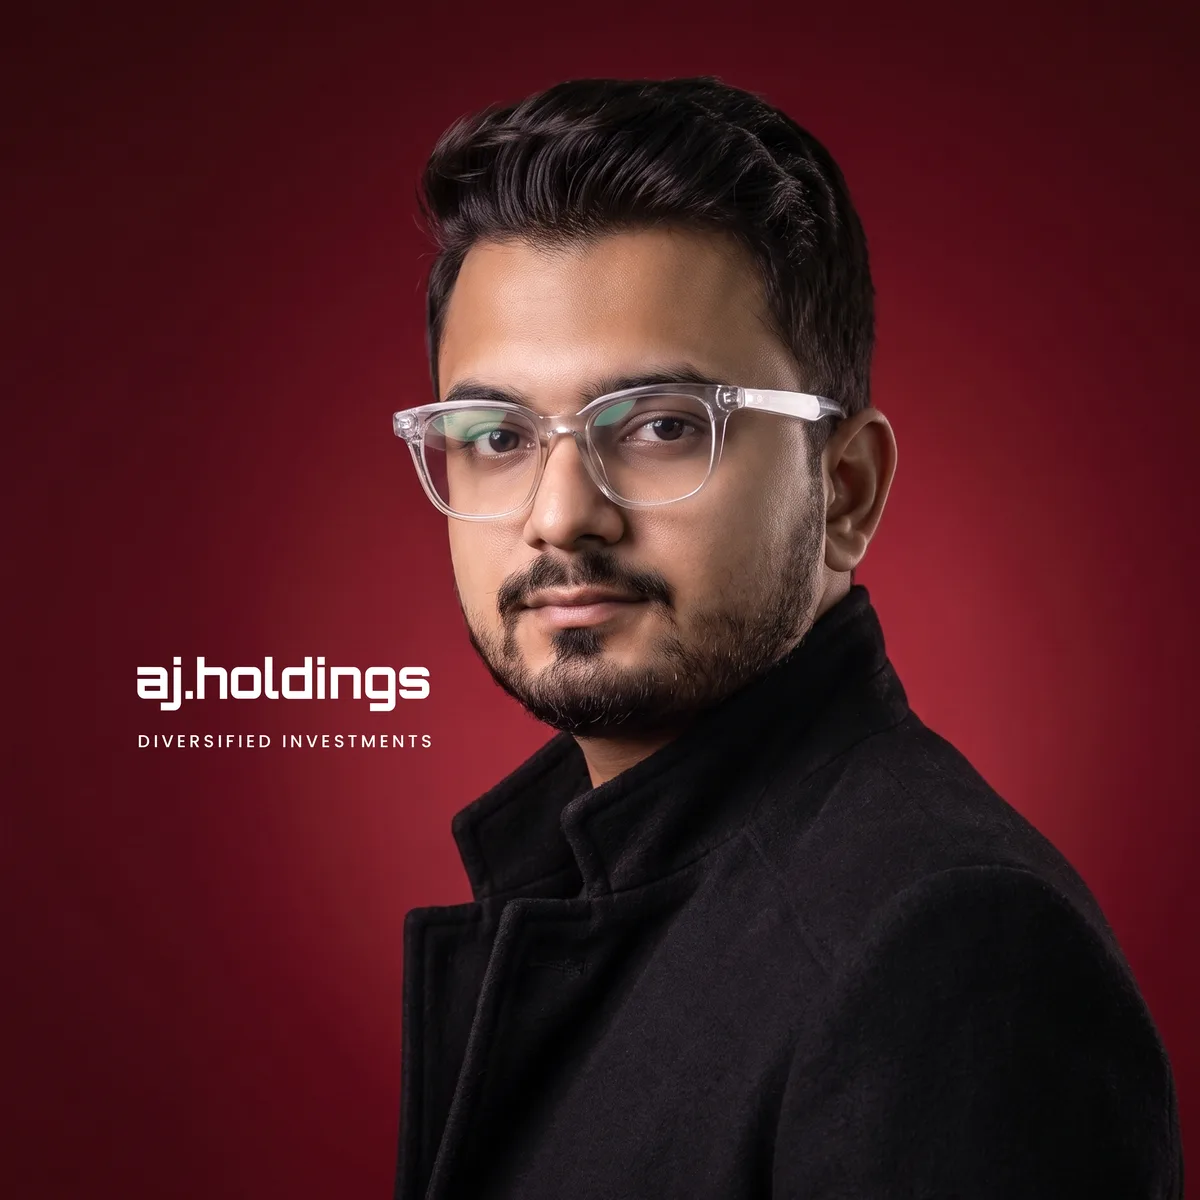
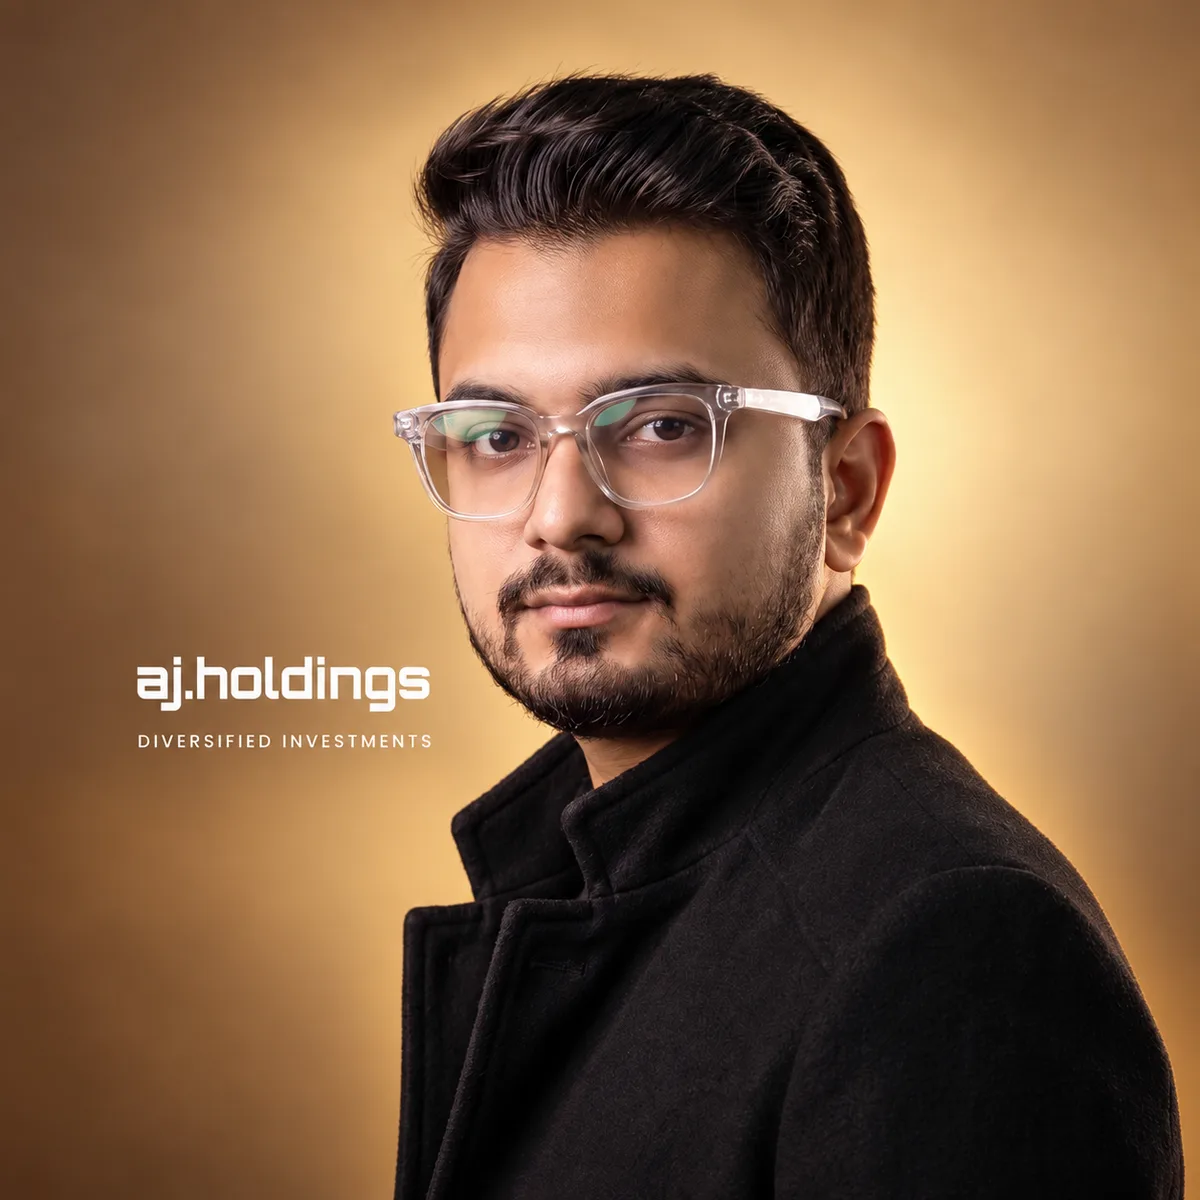
Gold Chairman portrait, digital-assets tile, and "Our holdings" heading
Publishes redesign 5271716 to the live site and the /preview/ mirror.

diff --git a/index.html b/index.html
@@ -118,16 +118,19 @@
                   <img src="portfolio/web/pace-digitek.png" alt="Pace Digitek" width="90" height="32" loading="lazy" />
                 </div>
                 <div class="hero-ticker-item">
-                  <img src="portfolio/web/GH2Solar.png" alt="GH2 Solar" width="90" height="32" loading="lazy" />
-                </div>
-                <div class="hero-ticker-item">
                   <img src="portfolio/web/88eightyeight.png" alt="88 Eighty Eight Pictures" width="90" height="32" loading="lazy" />
                 </div>
                 <div class="hero-ticker-item">
                   <img src="portfolio/web/skyy-development.png" alt="Skyy Development" width="90" height="32" loading="lazy" />
                 </div>
-                <div class="hero-ticker-item">
-                  <img src="portfolio/web/solana.svg" alt="Solana" width="90" height="32" loading="lazy" />
+                <div class="hero-ticker-item hero-ticker-coin">
+                  <img src="portfolio/web/bitcoin.svg" alt="Bitcoin" width="32" height="32" loading="lazy" />
+                </div>
+                <div class="hero-ticker-item hero-ticker-coin">
+                  <img src="portfolio/web/ethereum.svg" alt="Ethereum" width="20" height="32" loading="lazy" />
+                </div>
+                <div class="hero-ticker-item hero-ticker-coin">
+                  <img src="portfolio/web/solana.svg" alt="Solana" width="40" height="32" loading="lazy" />
                 </div>
                 <div class="hero-ticker-item">
                   <img src="portfolio/web/grew-solar.svg" alt="Grew Solar" width="90" height="32" loading="lazy" />
@@ -148,16 +151,19 @@
                   <img src="portfolio/web/pace-digitek.png" alt="" width="90" height="32" loading="lazy" />
                 </div>
                 <div class="hero-ticker-item" aria-hidden="true">
-                  <img src="portfolio/web/GH2Solar.png" alt="" width="90" height="32" loading="lazy" />
-                </div>
-                <div class="hero-ticker-item" aria-hidden="true">
                   <img src="portfolio/web/88eightyeight.png" alt="" width="90" height="32" loading="lazy" />
                 </div>
                 <div class="hero-ticker-item" aria-hidden="true">
                   <img src="portfolio/web/skyy-development.png" alt="" width="90" height="32" loading="lazy" />
                 </div>
-                <div class="hero-ticker-item" aria-hidden="true">
-                  <img src="portfolio/web/solana.svg" alt="" width="90" height="32" loading="lazy" />
+                <div class="hero-ticker-item hero-ticker-coin" aria-hidden="true">
+                  <img src="portfolio/web/bitcoin.svg" alt="" width="32" height="32" loading="lazy" />
+                </div>
+                <div class="hero-ticker-item hero-ticker-coin" aria-hidden="true">
+                  <img src="portfolio/web/ethereum.svg" alt="" width="20" height="32" loading="lazy" />
+                </div>
+                <div class="hero-ticker-item hero-ticker-coin" aria-hidden="true">
+                  <img src="portfolio/web/solana.svg" alt="" width="40" height="32" loading="lazy" />
                 </div>
                 <div class="hero-ticker-item" aria-hidden="true">
                   <img src="portfolio/web/grew-solar.svg" alt="" width="90" height="32" loading="lazy" />
@@ -361,11 +367,11 @@
         <div class="section-heading reveal">
           <div>
             <p class="eyebrow">[ PORTFOLIO ]</p>
-            <h2 id="portfolio-title">Companies <em>we back.</em></h2>
+            <h2 id="portfolio-title">Our <em>holdings.</em></h2>
           </div>
           <p class="heading-copy">
             Selected investments across technology, infrastructure, energy, real
-            estate and emerging industries. Select a logo to learn more.
+            estate, media and digital assets. Select a logo to learn more.
           </p>
         </div>
         <div class="portfolio-wall reveal">
@@ -412,25 +418,6 @@
               type="button"
               class="portfolio-logo"
               aria-expanded="false"
-              aria-controls="co-gh2-solar"
-            >
-              <img
-                src="portfolio/web/GH2Solar.png"
-                alt="GH2 Solar"
-                width="125"
-                height="55"
-                loading="lazy"
-              />
-            </button>
-            <p class="portfolio-note" id="co-gh2-solar" hidden>
-              <strong>GH2 Solar</strong>Green hydrogen company turning solar power into clean fuel, from electrons to molecules.
-            </p>
-          </div>
-          <div>
-            <button
-              type="button"
-              class="portfolio-logo"
-              aria-expanded="false"
               aria-controls="co-eighty-eight"
             >
               <img
@@ -464,24 +451,38 @@
               <strong>Skyy Development</strong>Real estate developer delivering residential and commercial projects.
             </p>
           </div>
-          <div>
+          <div class="portfolio-wide">
             <button
               type="button"
               class="portfolio-logo"
               aria-expanded="false"
-              aria-controls="co-solana"
+              aria-controls="co-digital-assets"
             >
-              <img
-                src="portfolio/web/solana.svg"
-                alt="Solana" class="logo-sm"
-                width="125"
-                height="55"
-                loading="lazy"
-              />
-              <span class="portfolio-name" aria-hidden="true">Solana</span>
+              <span class="portfolio-trio">
+                <img
+                  src="portfolio/web/bitcoin.svg"
+                  alt="Bitcoin"
+                  width="48"
+                  height="48"
+                  loading="lazy"
+                /><img
+                  src="portfolio/web/ethereum.svg"
+                  alt="Ethereum"
+                  width="30"
+                  height="48"
+                  loading="lazy"
+                /><img
+                  src="portfolio/web/solana.svg"
+                  alt="Solana"
+                  width="60"
+                  height="48"
+                  loading="lazy"
+                />
+              </span>
+              <span class="portfolio-name" aria-hidden="true">Bitcoin · Ethereum · Solana</span>
             </button>
-            <p class="portfolio-note" id="co-solana" hidden>
-              <strong>Solana</strong>High-performance blockchain network for decentralised applications and digital payments.
+            <p class="portfolio-note" id="co-digital-assets" hidden>
+              <strong>Digital Assets</strong>Strategic exposure to leading digital assets: Bitcoin, Ethereum and Solana.
             </p>
           </div>
           <div>

diff --git a/preview/index.html b/preview/index.html
@@ -119,16 +119,19 @@
                   <img src="portfolio/web/pace-digitek.png" alt="Pace Digitek" width="90" height="32" loading="lazy" />
                 </div>
                 <div class="hero-ticker-item">
-                  <img src="portfolio/web/GH2Solar.png" alt="GH2 Solar" width="90" height="32" loading="lazy" />
-                </div>
-                <div class="hero-ticker-item">
                   <img src="portfolio/web/88eightyeight.png" alt="88 Eighty Eight Pictures" width="90" height="32" loading="lazy" />
                 </div>
                 <div class="hero-ticker-item">
                   <img src="portfolio/web/skyy-development.png" alt="Skyy Development" width="90" height="32" loading="lazy" />
                 </div>
-                <div class="hero-ticker-item">
-                  <img src="portfolio/web/solana.svg" alt="Solana" width="90" height="32" loading="lazy" />
+                <div class="hero-ticker-item hero-ticker-coin">
+                  <img src="portfolio/web/bitcoin.svg" alt="Bitcoin" width="32" height="32" loading="lazy" />
+                </div>
+                <div class="hero-ticker-item hero-ticker-coin">
+                  <img src="portfolio/web/ethereum.svg" alt="Ethereum" width="20" height="32" loading="lazy" />
+                </div>
+                <div class="hero-ticker-item hero-ticker-coin">
+                  <img src="portfolio/web/solana.svg" alt="Solana" width="40" height="32" loading="lazy" />
                 </div>
                 <div class="hero-ticker-item">
                   <img src="portfolio/web/grew-solar.svg" alt="Grew Solar" width="90" height="32" loading="lazy" />
@@ -149,16 +152,19 @@
                   <img src="portfolio/web/pace-digitek.png" alt="" width="90" height="32" loading="lazy" />
                 </div>
                 <div class="hero-ticker-item" aria-hidden="true">
-                  <img src="portfolio/web/GH2Solar.png" alt="" width="90" height="32" loading="lazy" />
-                </div>
-                <div class="hero-ticker-item" aria-hidden="true">
                   <img src="portfolio/web/88eightyeight.png" alt="" width="90" height="32" loading="lazy" />
                 </div>
                 <div class="hero-ticker-item" aria-hidden="true">
                   <img src="portfolio/web/skyy-development.png" alt="" width="90" height="32" loading="lazy" />
                 </div>
-                <div class="hero-ticker-item" aria-hidden="true">
-                  <img src="portfolio/web/solana.svg" alt="" width="90" height="32" loading="lazy" />
+                <div class="hero-ticker-item hero-ticker-coin" aria-hidden="true">
+                  <img src="portfolio/web/bitcoin.svg" alt="" width="32" height="32" loading="lazy" />
+                </div>
+                <div class="hero-ticker-item hero-ticker-coin" aria-hidden="true">
+                  <img src="portfolio/web/ethereum.svg" alt="" width="20" height="32" loading="lazy" />
+                </div>
+                <div class="hero-ticker-item hero-ticker-coin" aria-hidden="true">
+                  <img src="portfolio/web/solana.svg" alt="" width="40" height="32" loading="lazy" />
                 </div>
                 <div class="hero-ticker-item" aria-hidden="true">
                   <img src="portfolio/web/grew-solar.svg" alt="" width="90" height="32" loading="lazy" />
@@ -362,11 +368,11 @@
         <div class="section-heading reveal">
           <div>
             <p class="eyebrow">[ PORTFOLIO ]</p>
-            <h2 id="portfolio-title">Companies <em>we back.</em></h2>
+            <h2 id="portfolio-title">Our <em>holdings.</em></h2>
           </div>
           <p class="heading-copy">
             Selected investments across technology, infrastructure, energy, real
-            estate and emerging industries. Select a logo to learn more.
+            estate, media and digital assets. Select a logo to learn more.
           </p>
         </div>
         <div class="portfolio-wall reveal">
@@ -413,25 +419,6 @@
               type="button"
               class="portfolio-logo"
               aria-expanded="false"
-              aria-controls="co-gh2-solar"
-            >
-              <img
-                src="portfolio/web/GH2Solar.png"
-                alt="GH2 Solar"
-                width="125"
-                height="55"
-                loading="lazy"
-              />
-            </button>
-            <p class="portfolio-note" id="co-gh2-solar" hidden>
-              <strong>GH2 Solar</strong>Green hydrogen company turning solar power into clean fuel, from electrons to molecules.
-            </p>
-          </div>
-          <div>
-            <button
-              type="button"
-              class="portfolio-logo"
-              aria-expanded="false"
               aria-controls="co-eighty-eight"
             >
               <img
@@ -465,24 +452,38 @@
               <strong>Skyy Development</strong>Real estate developer delivering residential and commercial projects.
             </p>
           </div>
-          <div>
+          <div class="portfolio-wide">
             <button
               type="button"
               class="portfolio-logo"
               aria-expanded="false"
-              aria-controls="co-solana"
+              aria-controls="co-digital-assets"
             >
-              <img
-                src="portfolio/web/solana.svg"
-                alt="Solana" class="logo-sm"
-                width="125"
-                height="55"
-                loading="lazy"
-              />
-              <span class="portfolio-name" aria-hidden="true">Solana</span>
+              <span class="portfolio-trio">
+                <img
+                  src="portfolio/web/bitcoin.svg"
+                  alt="Bitcoin"
+                  width="48"
+                  height="48"
+                  loading="lazy"
+                /><img
+                  src="portfolio/web/ethereum.svg"
+                  alt="Ethereum"
+                  width="30"
+                  height="48"
+                  loading="lazy"
+                /><img
+                  src="portfolio/web/solana.svg"
+                  alt="Solana"
+                  width="60"
+                  height="48"
+                  loading="lazy"
+                />
+              </span>
+              <span class="portfolio-name" aria-hidden="true">Bitcoin · Ethereum · Solana</span>
             </button>
-            <p class="portfolio-note" id="co-solana" hidden>
-              <strong>Solana</strong>High-performance blockchain network for decentralised applications and digital payments.
+            <p class="portfolio-note" id="co-digital-assets" hidden>
+              <strong>Digital Assets</strong>Strategic exposure to leading digital assets: Bitcoin, Ethereum and Solana.
             </p>
           </div>
           <div>

diff --git a/preview/style.css b/preview/style.css
@@ -2211,3 +2211,25 @@ h2 {
     transform: none;
   }
 }
+/* Portfolio: digital assets share one double-width tile. Dense flow lets
+   the next logo fill the gap the wide tile leaves at a row end. */
+.portfolio-wall {
+  grid-auto-flow: dense;
+}
+.portfolio-wall > .portfolio-wide {
+  grid-column: span 2;
+}
+.portfolio-trio {
+  display: flex;
+  align-items: center;
+  gap: clamp(22px, 3vw, 44px);
+}
+.portfolio-trio img {
+  width: auto;
+  height: 46px;
+}
+@media (max-width: 760px) {
+  .portfolio-trio img {
+    height: 38px;
+  }
+}

diff --git a/style.css b/style.css
@@ -2211,3 +2211,25 @@ h2 {
     transform: none;
   }
 }
+/* Portfolio: digital assets share one double-width tile. Dense flow lets
+   the next logo fill the gap the wide tile leaves at a row end. */
+.portfolio-wall {
+  grid-auto-flow: dense;
+}
+.portfolio-wall > .portfolio-wide {
+  grid-column: span 2;
+}
+.portfolio-trio {
+  display: flex;
+  align-items: center;
+  gap: clamp(22px, 3vw, 44px);
+}
+.portfolio-trio img {
+  width: auto;
+  height: 46px;
+}
+@media (max-width: 760px) {
+  .portfolio-trio img {
+    height: 38px;
+  }
+}
